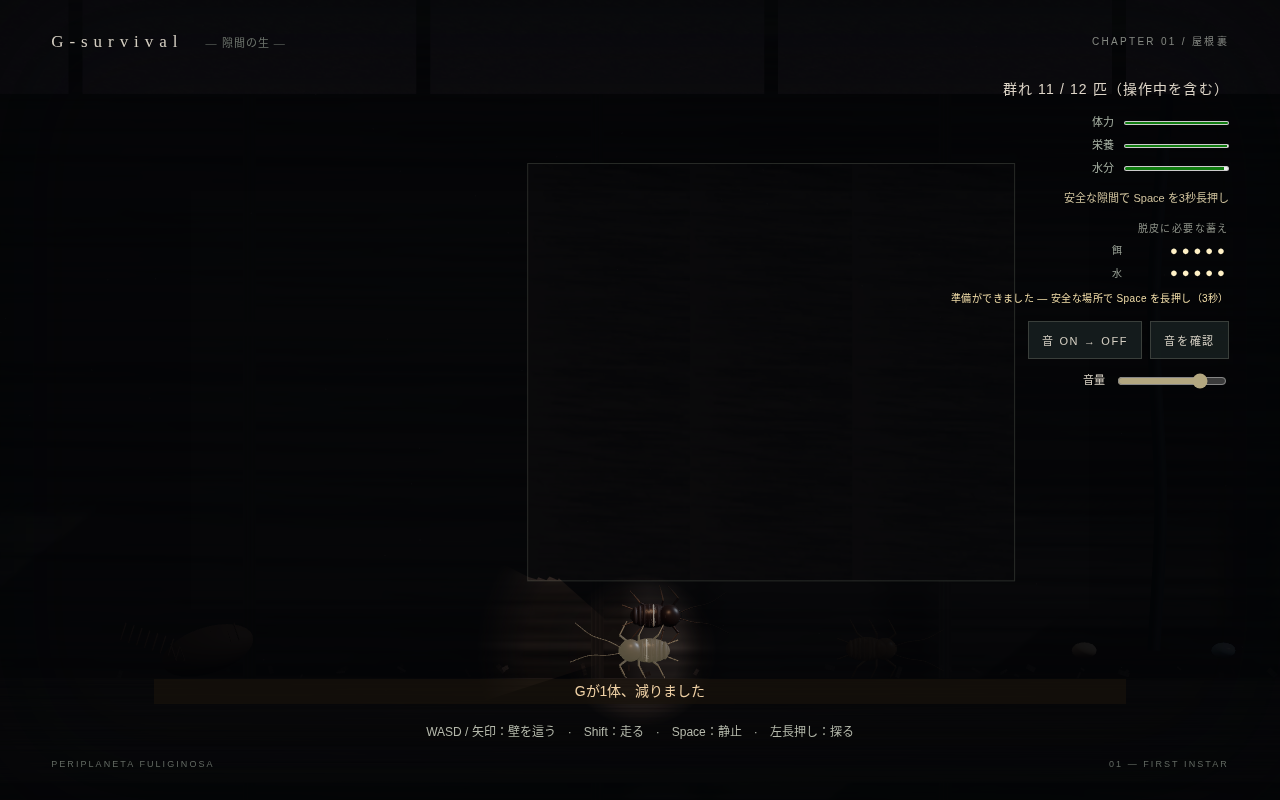
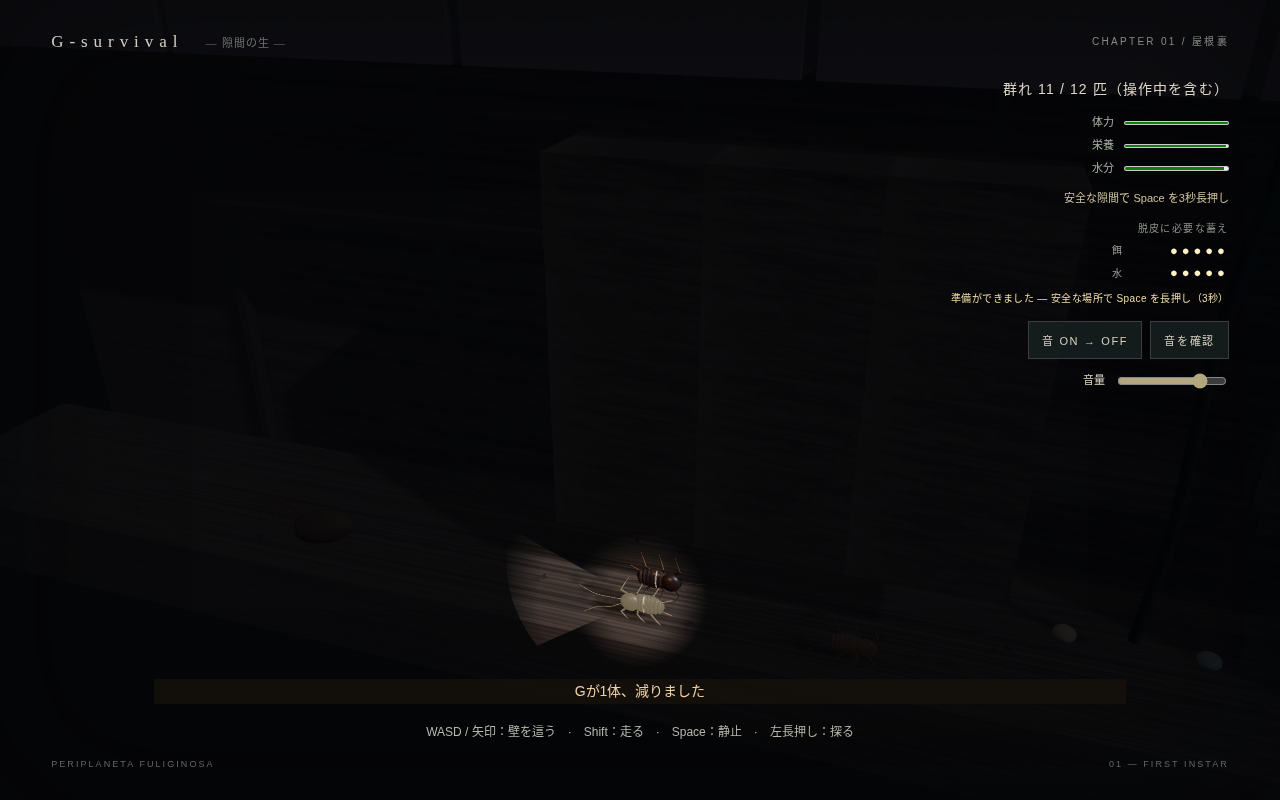
[claude] Switch to a perspective oblique camera (isometric refactor phase 1)
docs/isometric-refactor-brief.md のフェーズ1「まずカメラだけ傾ける」に限定。
OrthographicCamera を PerspectiveCamera に置き換え、方位角・俯角・距離を定数化して
注視点をプレイヤーに lerp 追従させる。傾けると壊れる箇所(照準の unproject、
project() の z、darkness() の world→px 倍率、resize() の frustum、
camera.right を使った更新ゲート)を追随させた。

世界の座標系・OBSTACLES・animals.ts は未変更。

Changed region(s): [[0.4062, 0.6875, 0.5625, 0.8438]]

diff --git a/src/main.ts b/src/main.ts
@@ -12,7 +12,13 @@ const renderer = new THREE.WebGLRenderer({canvas:document.querySelector('#world'
 renderer.setPixelRatio(Math.min(devicePixelRatio,2)); renderer.shadowMap.enabled=true; renderer.shadowMap.type=THREE.PCFSoftShadowMap;
 renderer.toneMapping=THREE.ACESFilmicToneMapping; renderer.toneMappingExposure=1.4;
 const scene=new THREE.Scene(); scene.background=new THREE.Color('#111317'); scene.fog=new THREE.FogExp2('#111317',.018);
-const camera=new THREE.OrthographicCamera(-14,14,8,-8,.1,100); camera.position.set(9,5,30); camera.lookAt(9,5,0);
+// 斜俯瞰カメラ。docs/isometric-refactor-brief.md フェーズ1(カメラのみ変更)。数値はすべて **AI暫定値** — ガクチョ未指定。`?cam=fov,yaw,pitch,dist` で一時的に上書きして比較できる。
+const camQ=(new URLSearchParams(location.search).get('cam')||'').split(',').map(Number),camN=(i:number,d:number)=>Number.isFinite(camQ[i])&&camQ[i]!==0?camQ[i]:d;
+const CAM_FOV=camN(0,45),CAM_YAW=THREE.MathUtils.degToRad(camN(1,18)),CAM_PITCH=THREE.MathUtils.degToRad(camN(2,26)),CAM_DIST=camN(3,14),CAM_HEIGHT=4.6,CAM_LERP=3,CAM_CATCHUP=9,PLANE_Z=1.4;
+const camera=new THREE.PerspectiveCamera(CAM_FOV,innerWidth/innerHeight,.1,200);
+const camTarget=new THREE.Vector3(9,CAM_HEIGHT,PLANE_Z),camOffset=new THREE.Vector3(Math.sin(CAM_YAW)*Math.cos(CAM_PITCH),Math.sin(CAM_PITCH),Math.cos(CAM_YAW)*Math.cos(CAM_PITCH)).multiplyScalar(CAM_DIST);
+function placeCamera(){camera.position.copy(camTarget).add(camOffset);camera.lookAt(camTarget);}placeCamera();
+const aimPlane=new THREE.Plane(new THREE.Vector3(0,0,1),-PLANE_Z),aimRay=new THREE.Raycaster(),aimNdc=new THREE.Vector2(),aimHit=new THREE.Vector3();
 scene.add(new THREE.HemisphereLight('#b1becb','#302322',2.4));
 const moon=new THREE.DirectionalLight('#c0cee0',3);moon.position.set(20,16,10);moon.castShadow=true;moon.shadow.mapSize.set(2048,2048);moon.shadow.camera.left=-60;moon.shadow.camera.right=60;moon.shadow.camera.top=20;moon.shadow.camera.bottom=-20;scene.add(moon);
 const warm=new THREE.PointLight('#cc9c78',20,16);warm.position.set(5,3,5);scene.add(warm);
@@ -56,8 +62,8 @@ const crumbs=ants.map(()=>{const m=new THREE.Mesh(new THREE.SphereGeometry(.05,5
 const keys=new Set<string>();let mouse={x:innerWidth*.65,y:innerHeight*.5},probe=false;
 addEventListener('keydown',e=>{if(['Space','KeyW','KeyA','KeyS','KeyD','ArrowUp','ArrowDown','ArrowLeft','ArrowRight','ShiftLeft','ShiftRight'].includes(e.code))e.preventDefault();keys.add(e.code);});addEventListener('keyup',e=>keys.delete(e.code));
 addEventListener('blur',()=>{keys.clear();probe=false;});addEventListener('pointermove',e=>{mouse={x:e.clientX,y:e.clientY};});addEventListener('pointerdown',e=>{if(e.button===0&&!(e.target as HTMLElement).closest('button,input'))probe=true;});addEventListener('pointerup',()=>probe=false);
-function resize(){renderer.setSize(innerWidth,innerHeight);veil.width=innerWidth;veil.height=innerHeight;const halfH=5.75;camera.left=-halfH*innerWidth/innerHeight;camera.right=-camera.left;camera.top=halfH;camera.bottom=-halfH;camera.updateProjectionMatrix();}addEventListener('resize',resize);resize();
-function project(x:number,y:number){const v=new THREE.Vector3(x,y,.1).project(camera);return{x:(v.x*.5+.5)*innerWidth,y:(-.5*v.y+.5)*innerHeight};}
+function resize(){renderer.setSize(innerWidth,innerHeight);veil.width=innerWidth;veil.height=innerHeight;camera.aspect=innerWidth/innerHeight;camera.updateProjectionMatrix();}addEventListener('resize',resize);resize();
+function project(x:number,y:number){const v=new THREE.Vector3(x,y,PLANE_Z).project(camera);return{x:(v.x*.5+.5)*innerWidth,y:(-.5*v.y+.5)*innerHeight};}
 let aim={x:5,y:1};const remembered=new Set<number>();
 function reach(x:number,y:number,dx:number,dy:number,max:number){for(let t=.12;t<max;t+=.12){const px=x+dx*t,py=y+dy*t;if(OBSTACLES.some(o=>px>o.x&&px<o.x+o.w&&py>o.y&&py<o.y+o.h))return t;}return max;}
 function sense(){return .4+.6*Math.min(game.hunger,game.water);}
@@ -66,7 +72,7 @@ function visible(x:number,y:number){const dx=x-game.player.x,dy=y-game.player.y,
 const VEIL_ALPHA=.88,NEAR_SPAN=1.25,NEAR_MID=.97,FAN_CORE=.97,FAN_MID=.8;
 function darkness(){
  ctx.clearRect(0,0,veil.width,veil.height);ctx.fillStyle=`rgba(3,5,7,${VEIL_ALPHA})`;ctx.fillRect(0,0,veil.width,veil.height);
- const p=project(game.player.x,game.player.y),scale=innerHeight/11.5,radius=scale*.9*NEAR_SPAN*sense();
+ const p=project(game.player.x,game.player.y),pu=project(game.player.x+1,game.player.y),scale=Math.hypot(pu.x-p.x,pu.y-p.y),radius=scale*.9*NEAR_SPAN*sense();
  ctx.globalCompositeOperation='destination-out';const near=ctx.createRadialGradient(p.x,p.y,0,p.x,p.y,radius);near.addColorStop(0,'rgba(0,0,0,1)');near.addColorStop(.55,`rgba(0,0,0,${NEAR_MID})`);near.addColorStop(1,'transparent');ctx.fillStyle=near;ctx.fillRect(p.x-radius,p.y-radius,2*radius,2*radius);
  const angle=Math.atan2(aim.y-game.player.y,aim.x-game.player.x),range=(probe?4:2.4)*sense(),spread=probe?.87:.52;
  const g=ctx.createRadialGradient(p.x,p.y,0,p.x,p.y,range*scale);g.addColorStop(0,`rgba(0,0,0,${FAN_CORE})`);g.addColorStop(.7,`rgba(0,0,0,${FAN_MID})`);g.addColorStop(1,'transparent');ctx.fillStyle=g;ctx.beginPath();ctx.moveTo(p.x,p.y);for(let i=0;i<=50;i++){const a=angle-spread+spread*2*i/50;const r=reach(game.player.x,game.player.y,Math.cos(a),Math.sin(a),range);const q=project(game.player.x+Math.cos(a)*r,game.player.y+Math.sin(a)*r);ctx.lineTo(q.x,q.y);}ctx.closePath();ctx.fill();ctx.globalCompositeOperation='source-over';
@@ -87,9 +93,10 @@ const moltReq=document.querySelector<HTMLElement>('#molt-req')!;let lastReqHtml=
 const MOLT_NEED=.85; // simulation.ts の moltReady と同じしきい値
 const marks=(v:number)=>{const f=Math.floor(Math.min(1,v/MOLT_NEED)*5);return '●'.repeat(f)+'○'.repeat(5-f);};
 let previous=performance.now(),accumulator=0;function frame(now:number){requestAnimationFrame(frame);const dt=Math.min((now-previous)/1000,.25);previous=now;
- const p=game.player;camera.position.x+=((started?p.x:4)-camera.position.x)*Math.min(1,dt*3);camera.position.y=4.6+Math.sin(now*.055)*game.humanEvent*.08;camera.updateMatrixWorld();const v=new THREE.Vector3(mouse.x/innerWidth*2-1,1-mouse.y/innerHeight*2,0).unproject(camera);aim={x:v.x,y:v.y};
+ const p=game.player;camTarget.x+=((started?p.x:4)-camTarget.x)*Math.min(1,dt*CAM_LERP);camTarget.y=CAM_HEIGHT+Math.sin(now*.055)*game.humanEvent*.08;placeCamera();camera.updateMatrixWorld();
+ aimNdc.set(mouse.x/innerWidth*2-1,1-mouse.y/innerHeight*2);aimRay.setFromCamera(aimNdc,camera);if(aimRay.ray.intersectPlane(aimPlane,aimHit))aim={x:aimHit.x,y:aimHit.y};
  const input={x:Number(keys.has('KeyD')||keys.has('ArrowRight'))-Number(keys.has('KeyA')||keys.has('ArrowLeft')),y:Number(keys.has('KeyW')||keys.has('ArrowUp'))-Number(keys.has('KeyS')||keys.has('ArrowDown')),sprint:keys.has('ShiftLeft')||keys.has('ShiftRight'),freeze:keys.has('Space'),probe,aimX:aim.x,aimY:aim.y};
- if(started&&!ended&&hatchTime>=4&&Math.abs(camera.position.x-p.x)<camera.right*.8){accumulator+=dt;while(accumulator>=1/60){game.update(1/60,input);accumulator-=1/60;}}
+ if(started&&!ended&&hatchTime>=4&&Math.abs(camTarget.x-p.x)<CAM_CATCHUP){accumulator+=dt;while(accumulator>=1/60){game.update(1/60,input);accumulator-=1/60;}}
  const travel=Math.hypot(p.x-lastX,p.y-lastY);if(travel>.001)bodyHeading=Math.atan2(p.y-lastY,p.x-lastX);lastX=p.x;lastY=p.y;
  const oldHatch=hatchTime;if(started)hatchTime=Math.min(4,(now-hatchStarted)/1000);if(oldHatch<4&&hatchTime>=4){game.siblings.forEach((s,i)=>{s.x=4+Math.cos(i*2.4)*2.4;s.y=1+Math.abs(Math.sin(i*2.4))*2;});}eggLeft.position.x=4-Math.min(1,hatchTime/3)*.4;eggRight.position.x=4+Math.min(1,hatchTime/3)*.4;eggLeft.rotation.z=-hatchTime*.08;eggRight.rotation.z=hatchTime*.08;hero.visible=started;hero.position.set(p.x,p.y,1.4);animateAnimal(hero,now/1000,travel/Math.max(dt,.001),bodyHeading,game.moltProgress);
  moltVisual.update(game.moltProgress,game.moltReady,game.molting||game.state==='won',p.x,p.y,bodyHeading,now/1000);

diff --git a/docs/isometric-refactor-brief.md b/docs/isometric-refactor-brief.md
@@ -1,0 +1,120 @@
+# 斜俯瞰3Dリファクタ 指示書 — g-survival
+
+## ゴール
+
+3DアクションファンタジーRPGのような**大胆な斜俯瞰視点**。かつ、床だけでなく**壁も垂直に登れる**。
+プレイヤーはクロゴキブリの1齢幼虫。ホラー寄りのトーンは維持する。
+
+---
+
+## 現状の構造（変更前）
+
+| 項目 | 現状 |
+|---|---|
+| カメラ | `OrthographicCamera(-14,14,8,-8,.1,100)` を `position(9,5,30)` → `lookAt(9,5,0)`。真正面からの平行投影 |
+| 世界 | X-Y平面に建てた「壁の断面」。Zは薄い奥行き（障害物 depth 1.6、背景壁は z=-3.5 に1枚） |
+| 座標 | `simulation.ts` は全て `{x,y}` の2次元。`go()` で `clamp(x,0,100)` / `clamp(y,1,8)` |
+| 衝突 | `OBSTACLES` は X-Y の矩形リスト |
+| 暗闇 | `main.ts` の `#veil` キャンバスに**スクリーン空間の2D**で描画。`project()` でワールド→スクリーン、`reach()` で X-Y 平面のレイキャスト |
+| 生物の向き | `animals.ts` の `animateAnimal` が `g.rotation.z = heading` のみで決定 |
+
+つまり、既に3Dで描画されているが、**カメラの置き方と世界の組み方が2D前提**になっている。
+
+---
+
+## 変更後の設計方針
+
+### 1. 座標系
+
+- ワールドを「**床面 = X-Z、高さ = Y**」に組み直す（Three.js標準）
+- `simulation.ts` の Point を3次元に拡張する
+- 移動は「**接触面上の2Dパラメータ空間**」で考えるのが安全。プレイヤーは常に何らかの面（床・壁・天井）に貼り付いており、`面の法線` と `面上の位置` を持つ。自由な3D移動として実装すると壁登りが破綻する
+
+### 2. 壁登り
+
+- 各コリジョン面に**法線**を持たせる。プレイヤーの姿勢は接触面の法線から決まる
+- 面から面への遷移（床→壁）は、進行方向にレイを飛ばして次の面を検出し、法線を補間して乗り移る
+- ゴキブリの「上下」は常に接触面の法線。**カメラは回さない**。プレイヤーだけが回る。天井に貼り付いても画面は回転しない
+- スタミナ消費・落下・滑落は後回しでよい
+
+### 3. カメラ
+
+- `PerspectiveCamera`（fov 40〜50）に変更する。大胆な斜俯瞰は平行投影より透視投影のほうが効く
+- 俯角 35〜50度、方位角 45度前後から見下ろす（アイソメトリック風）
+- プレイヤーを追従。ゴキブリは速いので、位置は `lerp` で減衰させないと酔う
+- ズーム倍率をプレイヤーの状態（脱皮中など）で変えられるようにしておくと演出に使える
+
+### 4. 暗闇（最大の注意点）
+
+現在の `#veil` はスクリーン空間の2D合成で、X-Y平面前提の `reach()` に依存している。**カメラを傾けた瞬間に破綻する。**
+
+選択肢は2つ。**どちらを採るか先に決めてから着手すること。**
+
+- **(a) スクリーン空間のまま維持** — `project()` でワールド→スクリーンに落とすので原理的には動く。ただし扇形のレイキャストを3D対応に書き直す必要がある。安上がりだが、傾いた床に光が正しく乗らない
+- **(b) 3Dライティングに移行** — プレイヤーに `SpotLight` を持たせ、`fog` を濃くして視界を作る。表現力は上がるが影の計算が増える
+
+**初手は (a) で通し、絵が固まってから (b) を検討する**のを勧める。
+
+### 5. 世界の作り直し
+
+- `OBSTACLES` は矩形リストのままでは足りない。床・壁・天井を持つボックス配列に拡張し、それぞれの面を歩けるようにする
+- 屋根裏という舞台設定は維持。梁・断熱材・配線という要素も維持
+- 100 unit の一本道 → 斜俯瞰なら奥行き方向にも広がりを持たせられる。ただし**第1章のゲーム目標（餌と水を探して安全な隙間へ、満腹で脱皮）は変えないこと**
+
+---
+
+## 触ってはいけないもの
+
+> **`src/animals.ts` は編集しないこと。**
+> 別作業で Blender 製の3Dモデル（.glb）に差し替え中。以下のインターフェースだけ守れば衝突しない。
+
+**現在:**
+
+```ts
+export function createAnimal(kind:'roach'|'spider'|'ant', scale=1): THREE.Group
+export function animateAnimal(g:THREE.Group, time:number, speed:number, heading:number, molt=0): void
+```
+
+**差し替え後（予定）:**
+
+```ts
+export async function loadAnimals(): Promise<void>   // 新規。scene構築前に一度 await する
+export function createAnimal(kind:'roach'|'spider'|'ant', scale=1): THREE.Group   // 同じ
+export function animateAnimal(g:THREE.Group, time:number, speed:number, orientation:THREE.Quaternion, molt=0): void
+```
+
+変更点:
+
+- `heading:number` → `orientation:THREE.Quaternion`。**壁に貼り付く姿勢は1軸の回転では表せないため**
+- モデルのローカル軸を glTF 標準に揃える: **-Z が前方、+Y が上（背中側）**。現在の `animals.ts` は「+Xが前方、+Zが上」なので変わる
+- `.glb` のロードが非同期なので、`loadAnimals()` を `await` してから scene を組む形になる
+
+呼び出し側（`main.ts`）は新シグネチャに備えておくこと。実装が届くまでは、現行の `heading` から
+
+```ts
+new THREE.Quaternion().setFromEuler(new THREE.Euler(0, heading, 0))
+```
+
+を作って渡すアダプタを置いておけばよい。
+
+---
+
+## 進め方（フェーズを守ること）
+
+1. まず**カメラだけ**傾けて現状を描画し、スクリーンショットを撮る。壁が書き割りに見える度合いを目視で確認する
+2. 世界のジオメトリを床面ベースに組み直す。この段階ではプレイヤーは床だけ歩ければよい
+3. 壁登りを入れる
+4. 暗闇の演出を新しい視点に合わせて作り直す
+5. アリ・クモのAIを3D経路に対応させる
+
+各フェーズごとにコミットし、スクリーンショットを `artifacts/` に残すこと。
+
+---
+
+## 実行環境の制約
+
+- **Intel Iris Xe 内蔵GPU**（Core i7-1195G7 / 4コア8スレッド / RAM 32GB）。専用VRAMなし
+- 影とライトを増やしすぎるとフレームレートが落ちる。**フェーズごとにFPSを計測すること**
+- 群れのゴキブリ12匹＋アリ28匹＋クモ2匹が同時に描画される前提で予算を組む
+- 操作はキーボード＋マウス
+- トーンはホラー寄り。人間は足元・影・手だけ描き、顔は見せない
